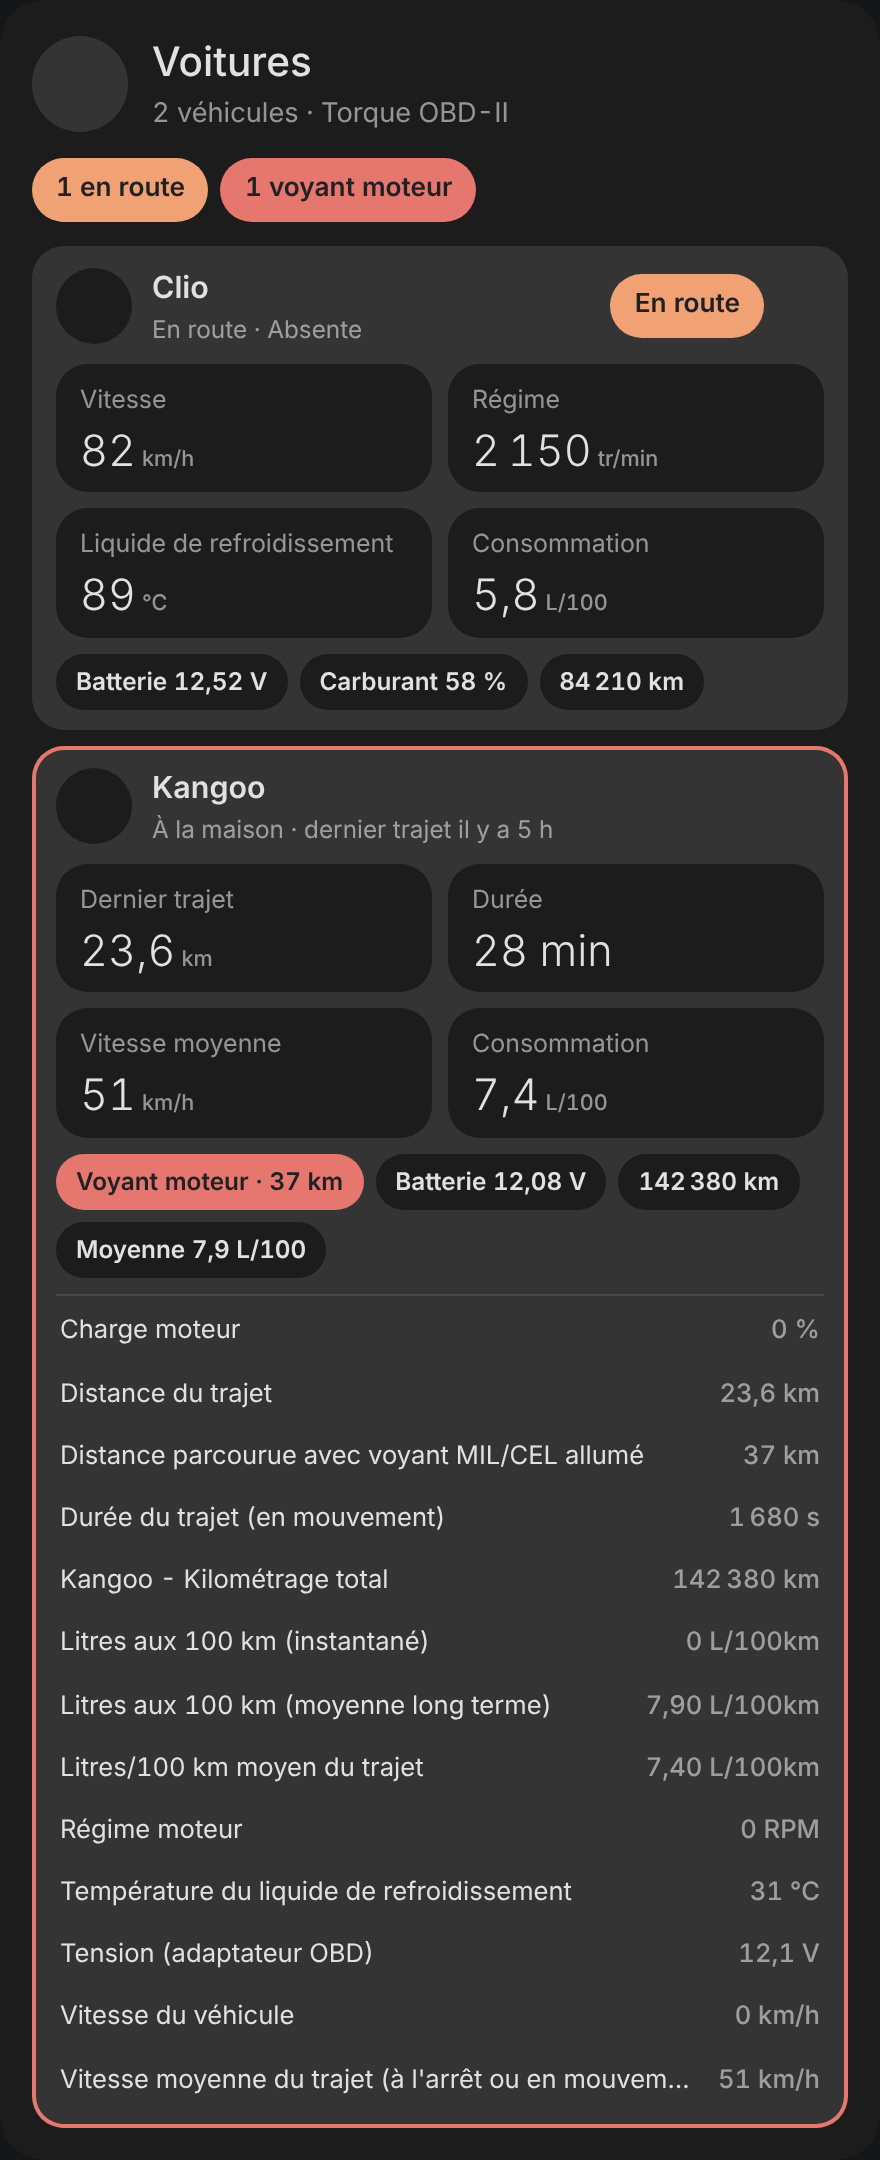
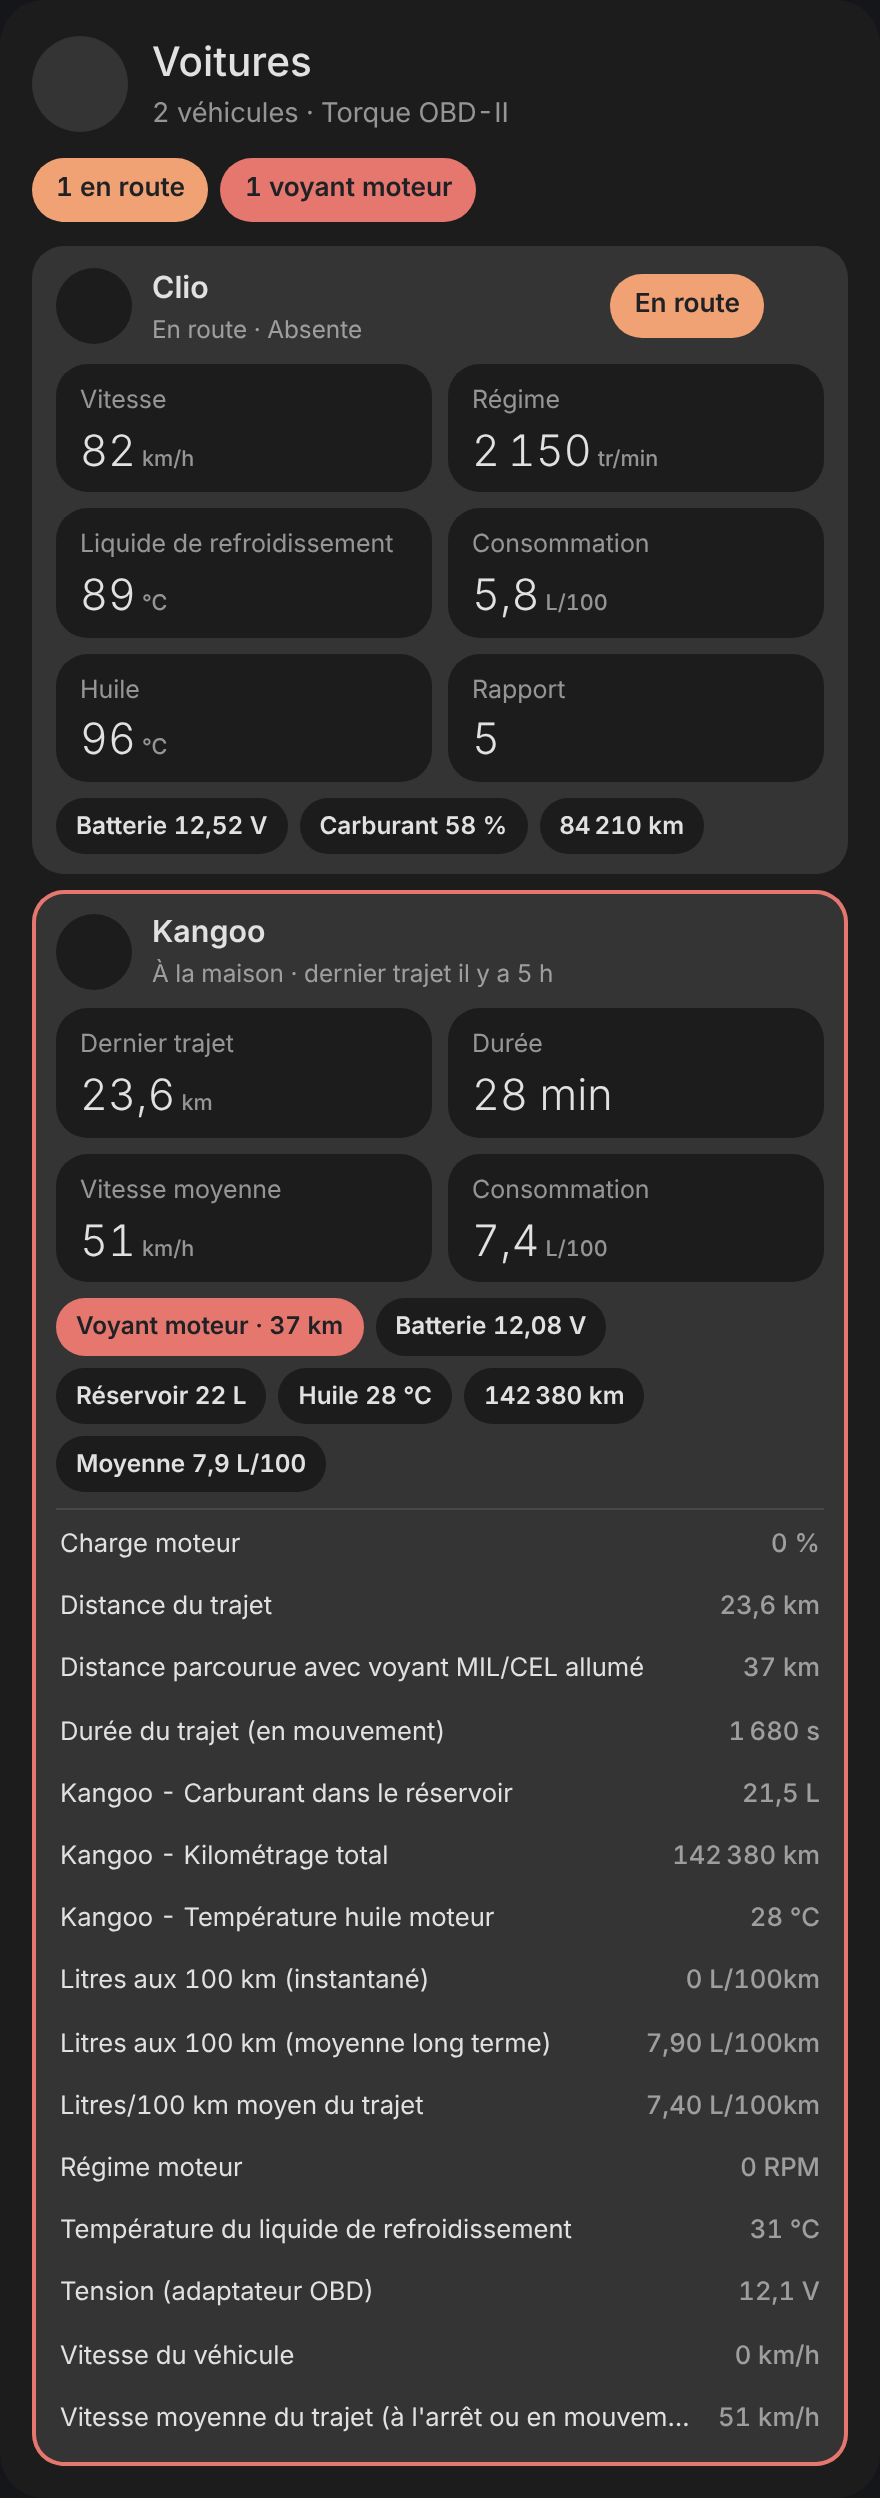
feat(voitures): reconnaître les PID personnalisés Laguna III et SLK R170
Température d'huile, pression de suralimentation, rapport engagé, réservoir
et kilométrage lus d'après la clé Torque ; vitesse, régime et températures
Laguna en secours des PID standard. Tuiles Huile, Turbo et Rapport en route.

Claude-Session: https://claude.ai/code/session_01SRKBBjDQfQhyTgJMcHgPqQ

diff --git a/maison-ha-cards.js b/maison-ha-cards.js
@@ -25,7 +25,7 @@
  */
 
 (() => {
-const CARD_VERSION = "0.4.0-beta.1";
+const CARD_VERSION = "0.4.0-beta.2";
 
 /* ------------------------------------------------------------- utilitaires */
 
@@ -2121,6 +2121,13 @@ const TQ_PIDS = {
   k21: "mil_km", kff1238: "obd_volt", kff1204: "trip_km", kff1268: "trip_moving", kff1266: "trip_time", kff1272: "trip_avg",
   kff1208: "trip_l100", kff1207: "l100", kff5203: "l100_long", kff1258: "co2", kff1225: "torque", kff1226: "hp", kff129a: "phone",
 };
+// PID propres au véhicule (définitions personnalisées Torque) : Renault Laguna III (Mode 22) et Mercedes SLK R170 (bloc 21 01)
+const TQ_CUSTOM = {
+  k222006: "odometer", k222201: "tank", k22287f: "tank", k222007: "oil", k2101_slktemp33: "oil", k2101_slkpres29: "boost",
+  k2101_slkgear: "gear", k222057: "alternator", k222168: "starts",
+};
+// secours quand le PID standard n'est pas lu
+const TQ_FALLBACK = { k222003: "speed", k222002: "rpm", k222001: "coolant", k22240d: "intake" };
 const tqPid = (p) => {
   p = String(p || "").toLowerCase();
   const h = p.slice(1);
@@ -2147,14 +2154,17 @@ class MaisonTorqueCard extends MaisonCard {
         const pid = o.attributes?.pid;
         if (!pid) continue; // URL Torque
         d.all.push(id);
-        const role = TQ_PIDS[tqPid(pid)];
+        const key = tqPid(pid);
+        const role = TQ_PIDS[key] || TQ_CUSTOM[key];
         const fn = String(o.attributes.friendly_name || "").toLowerCase();
         if (role && !d.roles[role]) d.roles[role] = id;
-        // PID propres au véhicule (« Laguna - Kilométrage total »…)
+        else if (TQ_FALLBACK[key]) (d.fallback ||= {})[TQ_FALLBACK[key]] ||= id;
+        // autres PID propres au véhicule, d'après leur nom
         else if (/kilom[ée]trage total|odom/.test(fn)) d.roles.odometer ||= id;
         else if (/carburant dans le r[ée]servoir/.test(fn)) d.roles.tank ||= id;
       }
     }
+    for (const d of Object.values(map)) for (const [k, id] of Object.entries(d.fallback || {})) d.roles[k] ||= id;
     // batterie BM6 au nom du véhicule (« Batterie Renault » pour « Renault »)
     const bm = Object.entries(reg).filter(([id, e]) => ["bm6", "bm2", "bm7"].includes(e.platform) && hass.states[id]?.attributes?.device_class === "voltage");
     for (const d of Object.values(map)) {
@@ -2193,8 +2203,10 @@ class MaisonTorqueCard extends MaisonCard {
       let main;
       if (live) {
         const cool = n(r.coolant);
+        const oil = n(r.oil), boost = n(r.boost), gear = n(r.gear);
         main = `<div class="dv-g">${tile("Vitesse", n(r.speed) !== null ? fmt(n(r.speed)) : n(r.gps_speed) !== null ? fmt(n(r.gps_speed)) : null, "km/h", r.speed || r.gps_speed)}${tile("Régime", n(r.rpm) !== null ? fmt(n(r.rpm)) : null, "tr/min", r.rpm)}` +
-          `${tile("Liquide de refroidissement", cool !== null ? fmt(cool) : null, "°C", r.coolant, cool !== null && cool >= 105 ? "tq-hot" : "")}${tile("Consommation", n(r.l100) !== null ? fmt(n(r.l100), 1) : null, "L/100", r.l100)}</div>`;
+          `${tile("Liquide de refroidissement", cool !== null ? fmt(cool) : null, "°C", r.coolant, cool !== null && cool >= 105 ? "tq-hot" : "")}${tile("Consommation", n(r.l100) !== null ? fmt(n(r.l100), 1) : null, "L/100", r.l100)}` +
+          `${tile("Huile", oil !== null ? fmt(oil) : null, "°C", r.oil, oil !== null && oil >= 130 ? "tq-hot" : "")}${tile("Turbo", boost !== null ? fmt(boost) : null, "mbar", r.boost)}${tile("Rapport", gear !== null ? (gear ? fmt(gear) : "N") : null, "", r.gear)}</div>`;
       } else {
         const mov = n(r.trip_moving) ?? n(r.trip_time);
         main = `<div class="dv-g">${tile("Dernier trajet", n(r.trip_km) !== null ? fmt(n(r.trip_km), 1) : null, "km", r.trip_km)}${tile("Durée", mov !== null ? hm(mov / 60) : null, "", r.trip_moving || r.trip_time)}` +
@@ -2205,6 +2217,7 @@ class MaisonTorqueCard extends MaisonCard {
         milKm ? `<span class="chipx warn"${this._click({ action: "more-info", entity: r.mil_km }, null, "Voyant moteur")}>Voyant moteur · ${fmt(milKm)} km</span>` : "",
         bat !== null ? `<span class="chipx${bat < 12 ? " warn" : ""}"${this._click({ action: "more-info", entity: r.battery }, null, "Batterie")}>Batterie ${fmt(bat, 2)} V</span>` : "",
         n(r.fuel) !== null ? `<span class="chipx"${this._click({ action: "more-info", entity: r.fuel }, null, "Carburant")}>Carburant ${fmt(n(r.fuel))} %</span>` : n(r.tank) !== null ? `<span class="chipx"${this._click({ action: "more-info", entity: r.tank }, null, "Carburant")}>Réservoir ${fmt(n(r.tank))} ${esc(st[r.tank].attributes.unit_of_measurement || "")}</span>` : "",
+        !live && n(r.oil) !== null ? `<span class="chipx"${this._click({ action: "more-info", entity: r.oil }, null, "Huile")}>Huile ${fmt(n(r.oil))} °C</span>` : "",
         n(r.odometer) !== null ? `<span class="chipx"${this._click({ action: "more-info", entity: r.odometer }, null, "Kilométrage")}>${fmt(n(r.odometer))} km</span>` : "",
         n(r.l100_long) !== null && !live ? `<span class="chipx"${this._click({ action: "more-info", entity: r.l100_long }, null, "Moyenne")}>Moyenne ${fmt(n(r.l100_long), 1)} L/100</span>` : "",
       ].filter(Boolean).join("");

diff --git a/docs/demo-hass.js b/docs/demo-hass.js
@@ -212,6 +212,9 @@
       q("distance_parcourue_avec_voyant_mil_cel_allume", "k21", live ? 0 : 37, "km", "Distance parcourue avec voyant MIL/CEL allumé");
       q("kilometrage_total", "k222006", live ? 84210 : 142380, "km", `${live ? "Clio" : "Kangoo"} - Kilométrage total`);
       if (live) q("niveau_de_carburant", "k2f", 58, "%", "Niveau de carburant");
+      q("temperature_huile_moteur", "k222007", live ? 96 : 28, "°C", `${name} - Température huile moteur`);
+      if (live) q("rapport_engage", "k2101_slkgear", 5, null, `${name} - Rapport engagé`);
+      if (!live) q("carburant_dans_le_reservoir", "k222201", 21.5, "L", `${name} - Carburant dans le réservoir`);
     }
     const areas = {};
     const floors = {

diff --git a/README.md b/README.md
@@ -395,6 +395,13 @@ Les voitures de l'intégration [Torque OBD-II](https://github.com/Marlboro62/Hom
 - la **zone** (« À la maison », « Absente » ou le nom de la zone, jamais l'adresse ni la carte) ;
 - des pastilles : **voyant moteur** (distance parcourue voyant allumé, en rouge), **batterie** (tension du boîtier BM6 dont le nom contient celui de la voiture, ex. « Batterie Clio » pour « Clio »), **carburant**, **kilométrage** (PID propre au véhicule, ex. « Laguna - Kilométrage total ») et consommation moyenne.
 
+**PID propres au véhicule** (définitions personnalisées `torque_sensor_definitions.yaml`), reconnus d'après leur clé :
+
+- Renault Laguna III (Mode 22) : kilométrage total (`k222006`), carburant dans le réservoir (`k222201`, sinon `k22287f`), température d'huile (`k222007`), puissance de l'alternateur, cumul des démarrages ; vitesse, régime, liquide de refroidissement et air d'admission (`k222001` à `k222003`, `k22240d`) servent de secours si les PID standard ne sont pas lus ;
+- Mercedes SLK R170 (bloc `21 01`) : température d'huile (`k2101_slktemp33`), pression de suralimentation (`k2101_slkpres29`) et rapport engagé (`k2101_slkgear`).
+
+En route, l'huile (rouge à partir de 130 °C), le turbo et le rapport s'ajoutent aux tuiles ; à l'arrêt, la dernière température d'huile apparaît en pastille.
+
 Un clic sur une voiture liste **tous ses capteurs** par ordre alphabétique ; un appui long ouvre la fiche « Torque connecté ».
 
 `devices` (vide = toutes), `show_location` (`true`), `show_battery` (`true`), `title`, `icon`.
